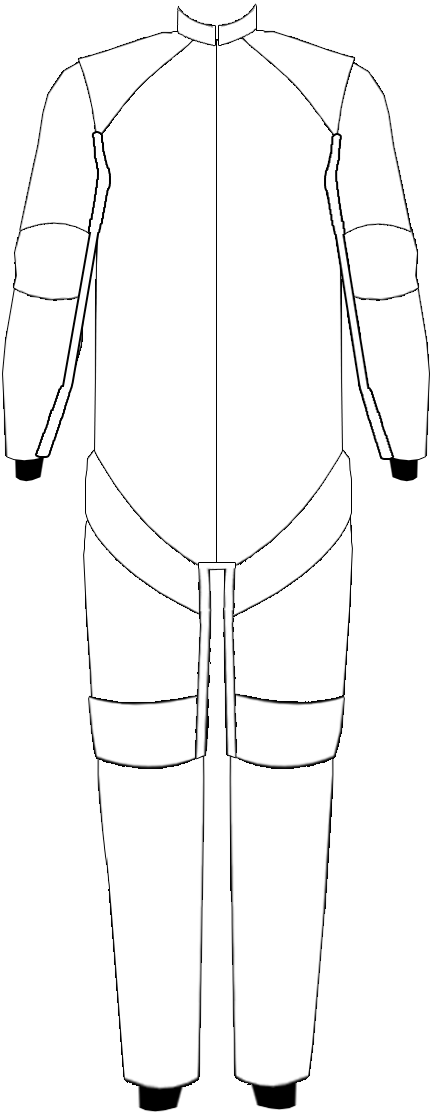
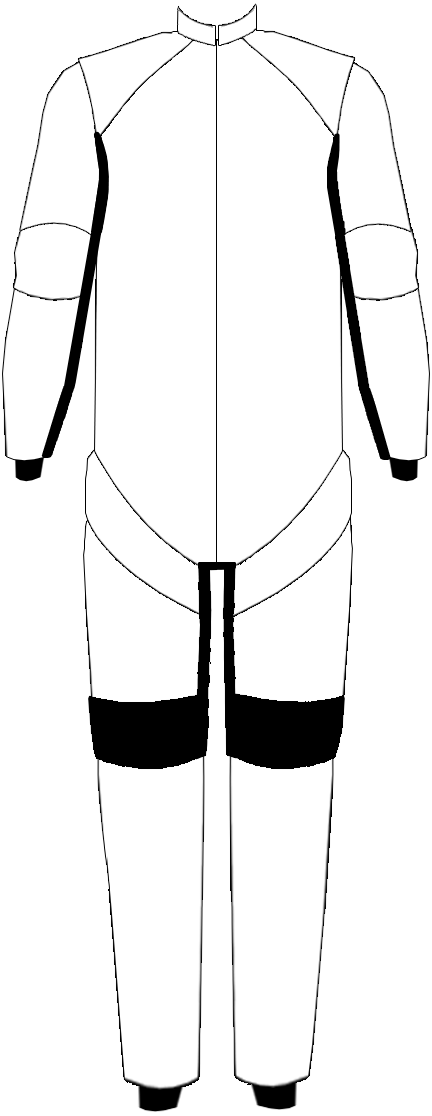
pudate

diff --git a/Alt Designs/one/index.html b/Alt Designs/one/index.html
@@ -11,12 +11,13 @@
 <body>
   <main>
     <section class="build-full">
-      <h1>Chaos</h1>
-      <p>Create your own uique style</p>
+      <h1>Caos Suit Designer</h1>
+      <p>Create your own unique style and fly in style</p>
       <section class="build-wrap">
         <section class="color-picker">
           <div onclick="colorPickerPannelSet('measurements')" class="color-nav-1">Measurements</div>
-          <div onclick="colorPickerPannelSet('colors')" class="color-nav-2">Color Picker</div>
+          <div onclick="colorPickerPannelSet('colors')" class="color-nav-2">Front</div>
+          <div onclick="colorPickerPannelSet('colors')" class="color-nav-3">Back</div>
           <div id="color-picker-measurements" class="color-picker-measurements">
 
             testing
@@ -26,8 +27,8 @@
             <div id="color-single-left arm" class="color-single">
               <div class="color-single-wrap" onclick="colorPickerDropdown('left-upper-arm')">
                 <h4>Left Upper Arm</h4>
-                <div class="color-single-display" style="background: red"></div>
-                <p>Red</p>
+                <div id="left-upper-arm-label" class="color-single-display" style="background: rgba(0,0,0, .0)"></div>
+                <p id="left-upper-arm-title">Select</p>
                 <img src="./img/double-down-arrow.svg"/>
               </div>
               <div id="color-picker-dorpdown-left-arm" class="picker-dropdown left-armdropdown">
@@ -49,8 +50,8 @@
             <div id="color-single-right-arm" class="color-single">
               <div class="color-single-wrap" onclick="colorPickerDropdown('right-upper-arm')">
                 <h4>Right Upper Arm</h4>
-                <div class="color-single-display" style="background: red"></div>
-                <p>Red</p>
+                <div id="right-upper-arm-label" class="color-single-display" style="background: rgba(0,0,0, .0)"></div>
+                <p id="right-upper-arm-title">Select</p>
                 <img src="./img/double-down-arrow.svg"/>
               </div>
               <div id="color-picker-dorpdown-right-upper-arm" class="picker-dropdown left-armdropdown">
@@ -73,13 +74,25 @@
         </section>
         <section class="suit-display">
           <div class="suit-display-front suit-display-img">
+            <section class="suit-images">
+              <div id="upper-left-arm-svg-wrap" class"single-suit-image">
+                <svg style="fill:none;"id="upper-left-arm-svg" data-name="Layer 1" xmlns="http://www.w3.org/2000/svg" viewBox="0 0 81.83 178.26"><title>left-upper-arm</title><g id="_0jEfYJ.tif" data-name="0jEfYJ.tif"><path d="M-105,462v3c-23.56-10.82-46.57-11.57-68.65,3.84-3.9,2.73-4.81.56-5.36-2.86-1.65-10.19-3.56-20.34-5-30.55-2.28-15.79-5.34-31.63,1-47.26a7.24,7.24,0,0,0,.46-2.45c.62-18.42,5.21-36.22,8.46-54.22,2-10.81,4.14-21.59,6.36-32.35.39-1.87.53-5.53,3.56-3.94,6.28,3.29,13.33,5.75,17.92,11.49,10.58,13.22,17.87,27.95,19.9,45,3.46,29.15,10.56,57.63,16.17,86.38C-108.63,446.11-106.74,454-105,462Z" transform="translate(186.83 -294.82)"/></g>
+                </svg>
+              </div>
+              <div id="upper-right-arm-svg-wrap" class"single-suit-image">
+                <svg  style="fill:none;" id="upper-right-arm-svg" data-name="Layer 1" xmlns="http://www.w3.org/2000/svg" viewBox="0 0 81.83 178.26"><title>left-upper-arm</title><g id="_0jEfYJ.tif" data-name="0jEfYJ.tif"><path d="M-58,376v5a32.69,32.69,0,0,0-.76,3.87C-60.35,405.14-64,425.1-68,445h-2c-13.77-11.29-29.55-15.46-47.18-13.85-9.36.86-17.92,4.41-26.82,6.85v-5c1.42-6.66,2.95-13.29,4.25-20,5.21-26.57,12.38-52.75,16.07-79.6,2.57-18.7,6.86-36.5,19.06-51.59a27.57,27.57,0,0,1,7.59-7c5-2.89,10-5.88,15-8.82h3c2.11,10.88,4,21.81,6.38,32.64,3.52,16,6.32,32.13,8.92,48.29C-62.12,356.69-62.55,366.83-58,376Z" transform="translate(144 -266)"/></g>
+                </svg>
+              </div>
+            </section>
             <img src="./img/Hybrid1/h1-outline.png" />
+            <h2 class="suit-titles">Suit Front</h2>
           </div>
           <div class="suit-display-back suit-display-img">
             <img src="./img/Hybrid1/h1-outline.png" />
+            <h2 class="suit-titles">Suit Back</h2>
           </div>
           <div class="builder-btns">
-            <div class="builder-btn">Save Colors</div>
+            <div class="builder-btn" onclick="saveSuitOptions()">Save and Continue</div>
             <div class="builder-btn">Reset Designer</div>
           </div>
         </section>

diff --git a/Alt Designs/one/css.css b/Alt Designs/one/css.css
@@ -32,7 +32,8 @@ h1{
   display: flex;
   flex-direction: column;
   align-items: center;
-  justify-content: center;
+  justify-content: flex-start;
+  padding: 30px 0 0 0;
 }
 .build-wrap{
   width: 100%;
@@ -49,7 +50,7 @@ h1{
   align-items: center;
   position: relative;
   width: 23%;
-  height: 70vh;
+  height: 80vh;
   margin: 10px;
   border: 1px solid rgba(0,0,0, .2);
   border-radius: 5px;
@@ -61,7 +62,7 @@ h1{
   justify-content: space-around;
   align-items: center;
   width: 50%;
-  height: 70vh;
+  height: 80vh;
   margin: 10px;
   border: 1px solid rgba(0,0,0, .2);
   border-radius: 5px;
@@ -75,7 +76,7 @@ h1{
   box-shadow: -1px 1px 6px rgba(0,0,0, .3);
   position: relative;
   width: 18%;
-  height: 70vh;
+  height: 80vh;
   margin: 10px;
   border: 1px solid rgba(0,0,0, .2);
   border-radius: 5px;
@@ -83,6 +84,8 @@ h1{
 .color-nav-1:hover{
   border: 1px solid rgba(0,0,0, .9);
   border-bottom: none;
+  background: rgba(0,0,0, 1);
+  color: white;
 }
 .color-nav-1{
   display: flex;
@@ -93,19 +96,24 @@ h1{
   border-top-right-radius: 3px;
   transition: all .4s;
   position: absolute;
-  width: 45%;
+  width: 32%;
+  font-size: .66rem;
+  font-weight: 300;
   height: 25px;
   top: -25px;
-  right: 3%;
+  right: 1%;
   border: 1px solid rgba(0,0,0, .2);
   border-bottom: none;
 }
 .color-nav-2:hover{
   border: 1px solid rgba(0,0,0, .9);
+  background: rgba(0,0,0, 1);
+  color: white;
   border-bottom: none;
 }
 .color-nav-2{
-  background: rgba(0,0,0, .1);
+  background: rgba(0,0,0, .7);
+  color: white;
   display: flex;
   justify-content: center;
   align-items: center;
@@ -114,10 +122,35 @@ h1{
   border-top-right-radius: 3px;
   transition: all .4s;
   position: absolute;
-  width: 45%;
+  width: 32%;
+  font-size: .66rem;
+  font-weight: 300;
   height: 25px;
   top: -25px;
-  left: 3%;
+  left: 1%;
+  border: 1px solid rgba(0,0,0, .2);
+  border-bottom: none;
+}
+.color-nav-3:hover{
+  border: 1px solid rgba(0,0,0, .9);
+  border-bottom: none;
+  background: rgba(0,0,0, 1);
+  color: white;
+}
+.color-nav-3{
+  display: flex;
+  justify-content: center;
+  align-items: center;
+  letter-spacing: .1rem;
+  border-top-left-radius: 3px;
+  border-top-right-radius: 3px;
+  transition: all .4s;
+  position: absolute;
+  width: 32%;
+  font-size: .66rem;
+  height: 25px;
+  top: -25px;
+  left: 34%;
   border: 1px solid rgba(0,0,0, .2);
   border-bottom: none;
 }
@@ -176,6 +209,7 @@ h1{
   height: 95%;
 }
 .suit-display-img{
+  position: relative;
   display: flex;
   justify-content: center;
   align-items: center;
@@ -223,7 +257,7 @@ h1{
   margin: 10px;
   padding: 5px 10px;
   border-radius: 3px;
-  width: 150px;
+  width: 180px;
   font-size: 1rem;
   letter-spacing: .1rem;
   text-align: center;
@@ -265,6 +299,41 @@ h1{
 .color-single-wrap{
   width: 100%;
   display: flex;
+}
+#right-upper-arm-SVG{
+  fill: #94d31b;
+}
+@import "compass/css3";
+
+.logo {
+  width: 200px;
+  height: 164px;
+}
+.upper-left-arm-svg{
+
+}
+.suit-images{
+  position: absolute;
+  top:0;
+  width: 245px;
+  height: 100%;
+}
+#upper-left-arm-svg{
+  width: 27.9px;
+  position: absolute;
+  top: 54px;
+  left: 160.7px;
+}
+#upper-right-arm-svg{
+  width: 27.9px;
+  position: absolute;
+  top: 53px;
+  left: 55.7px;
+}
+.suit-titles{
+  position: absolute;
+  top: 5px;
+  font-size: 1.5rem;
 }
 
 @media screen and (max-width: 780px) {

diff --git a/Alt Designs/one/js.js b/Alt Designs/one/js.js
@@ -31,28 +31,64 @@ function run(){
 function colorPickerSelect(color){
   //left upper arm control
   if(color === 'la-green'){
+    document.getElementById('left-upper-arm-label').style.background = 'green'
+    document.getElementById("left-upper-arm-title").innerHTML = "Green";
+    document.getElementById('upper-right-arm-svg').style.fill = 'green'
+    document.getElementById('upper-right-arm-svg').style.stroke = 'black'
     document.getElementById('color-picker-dorpdown-left-arm').style.display = 'none'
     dropdownCtrl = true
   }
   if(color === 'la-blue'){
+    document.getElementById('left-upper-arm-label').style.background = 'lightblue'
+    document.getElementById("left-upper-arm-title").innerHTML = "Blue";
+    document.getElementById('upper-right-arm-svg').style.fill = 'lightblue'
+    document.getElementById('upper-right-arm-svg').style.stroke = 'black'
     document.getElementById('color-picker-dorpdown-left-arm').style.display = 'none'
     dropdownCtrl = true
   }
   if(color === 'la-red'){
+    document.getElementById('left-upper-arm-label').style.background = 'red'
+    document.getElementById("left-upper-arm-title").innerHTML = "Red";
+    document.getElementById('upper-right-arm-svg').style.fill = 'red'
+    document.getElementById('upper-right-arm-svg').style.stroke = 'black'
     document.getElementById('color-picker-dorpdown-left-arm').style.display = 'none'
     dropdownCtrl = true
   }
   //right upper arm control
   if(color === 'rua-green'){
+    document.getElementById('right-upper-arm-label').style.background = 'Green'
+    document.getElementById("right-upper-arm-title").innerHTML = "Green";
+    document.getElementById('upper-left-arm-svg').style.fill = 'green'
+    document.getElementById('upper-left-arm-svg').style.stroke = 'black'
     document.getElementById('color-picker-dorpdown-right-upper-arm').style.display = 'none'
     dropdownCtrl = true
   }
   if(color === 'rua-blue'){
+    document.getElementById('right-upper-arm-label').style.background = 'lightblue'
+    document.getElementById("right-upper-arm-title").innerHTML = "Blue";
+    document.getElementById('upper-left-arm-svg').style.fill = 'lightblue'
+    document.getElementById('upper-left-arm-svg').style.stroke = 'black'
     document.getElementById('color-picker-dorpdown-right-upper-arm').style.display = 'none'
     dropdownCtrl = true
   }
   if(color === 'rua-red'){
+    document.getElementById('right-upper-arm-label').style.background = 'Red'
+    document.getElementById("right-upper-arm-title").innerHTML = "Red";
+    document.getElementById('upper-left-arm-svg').style.fill = 'red'
+    document.getElementById('upper-left-arm-svg').style.stroke = 'black'
     document.getElementById('color-picker-dorpdown-right-upper-arm').style.display = 'none'
     dropdownCtrl = true
   }
+}
+// Save suit options - make sure you require them to watch the video and add measurements before 
+
+
+
+
+
+//testing
+function testSVG(){
+  alert("Acknowledge to modify object color.");
+  var object = document.getElementById("right-upper-arm-SVG");
+  object.setAttribute("fill", "green");
 }

diff --git a/index.html b/index.html
@@ -9,75 +9,7 @@
 </head>
 <body>
   <main>
-    <section class="build-wrap">
-      <!-- Left sife form -->
-      <div class="side-form">
-        <h1>Left Side</h1>
-        <div class="select-wrap">
-          <h4>Front Left Arm</h4>
-          <select class="select-field" onchange="scheduleA.call(this, event)" id="front-left-arm-val">
-            <option value="" >Select One</option>
-            <option value="" >Red</option>
-            <option value="" >Green</option>
-            <option value="" >Blue</option>
-          </select>
-        </div>
-        <div class="select-wrap">
-          <h4>Front Left Sholder</h4>
-          <select class="select-field" onchange="scheduleB.call(this, event)" id="front-left-sholder-val">
-            <option value="" >Select One</option>
-            <option value="" >Red</option>
-            <option value="" >Green</option>
-            <option value="" >Blue</option>
-          </select>
-        </div>
-        <div class="select-wrap">
-          <h4>Front Left Collar</h4>
-          <select class="select-field" onchange="scheduleC.call(this, event)" id="front-left-collar-val">
-            <option value="" >Select One</option>
-            <option value="" >Red</option>
-            <option value="" >Green</option>
-            <option value="" >Blue</option>
-          </select>
-        </div>
-      </div>
-      <!-- Center template for view-->
-      <Section class="suit-images">
-        <div class="suit-outline">
-          <h4>Front</h4>
-          <div class="suit-outline-front">
-            <img class="suit-piece red" id="front-left-arm" src="./img/summer2/front-left-arm.png" />
-            <img class="suit-piece red" id="front-left-sholder" src="./img/summer2/front-left-sholder.png" />
-            <img class="suit-piece red" id="front-left-collar" src="./img/summer2/front-left-collar.png" />
-          </div>
-        </div>
-        <div class="suit-outline">
-          <img src="./img/summer2/outline-back.png"/>
-        </div>
-      </Section>
-      <!-- Right sife form -->
-      <div class="side-form">
-        <h1>Right Side</h1>
-        <div class="select-wrap">
-          <h4>Right Arm Top</h4>
-          <select class="select-field">
-            <option value="" >Select One</option>
-            <option value="" >Red</option>
-            <option value="" >Green</option>
-            <option value="" >Blue</option>
-          </select>
-        </div>
-        <div class="select-wrap">
-          <h4>Right Arm Bottom</h4>
-          <select class="select-field">
-            <option value="" >Select One</option>
-            <option value="" >Red</option>
-            <option value="" >Green</option>
-            <option value="" >Blue</option>
-          </select>
-        </div>
-      </div>
-    </section>
+    <a href="./Alt Designs/one/index.html"><button>Enter Suit Designer</button><a/>
   </main>
 </body>
 <script src="./js.js"></script>
